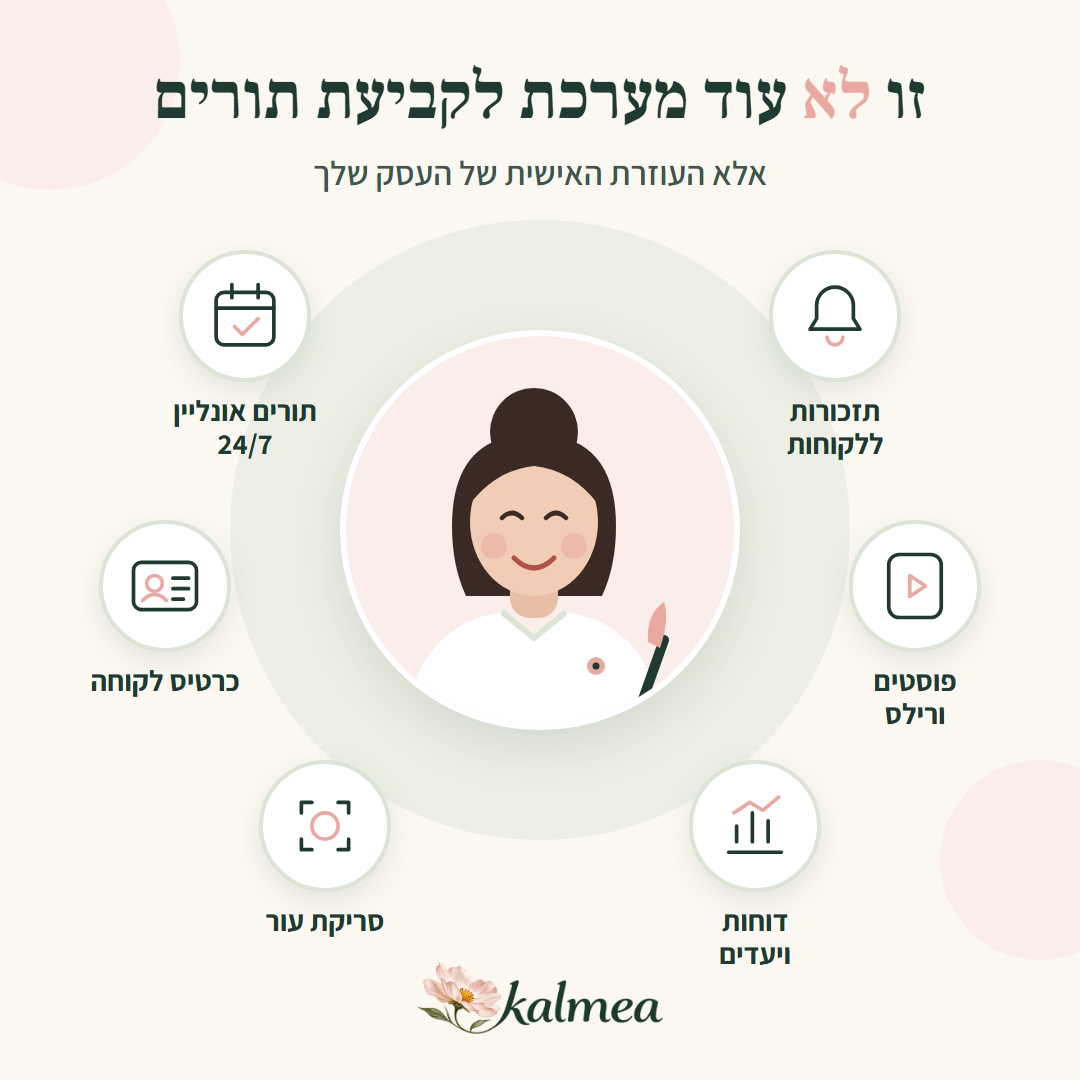
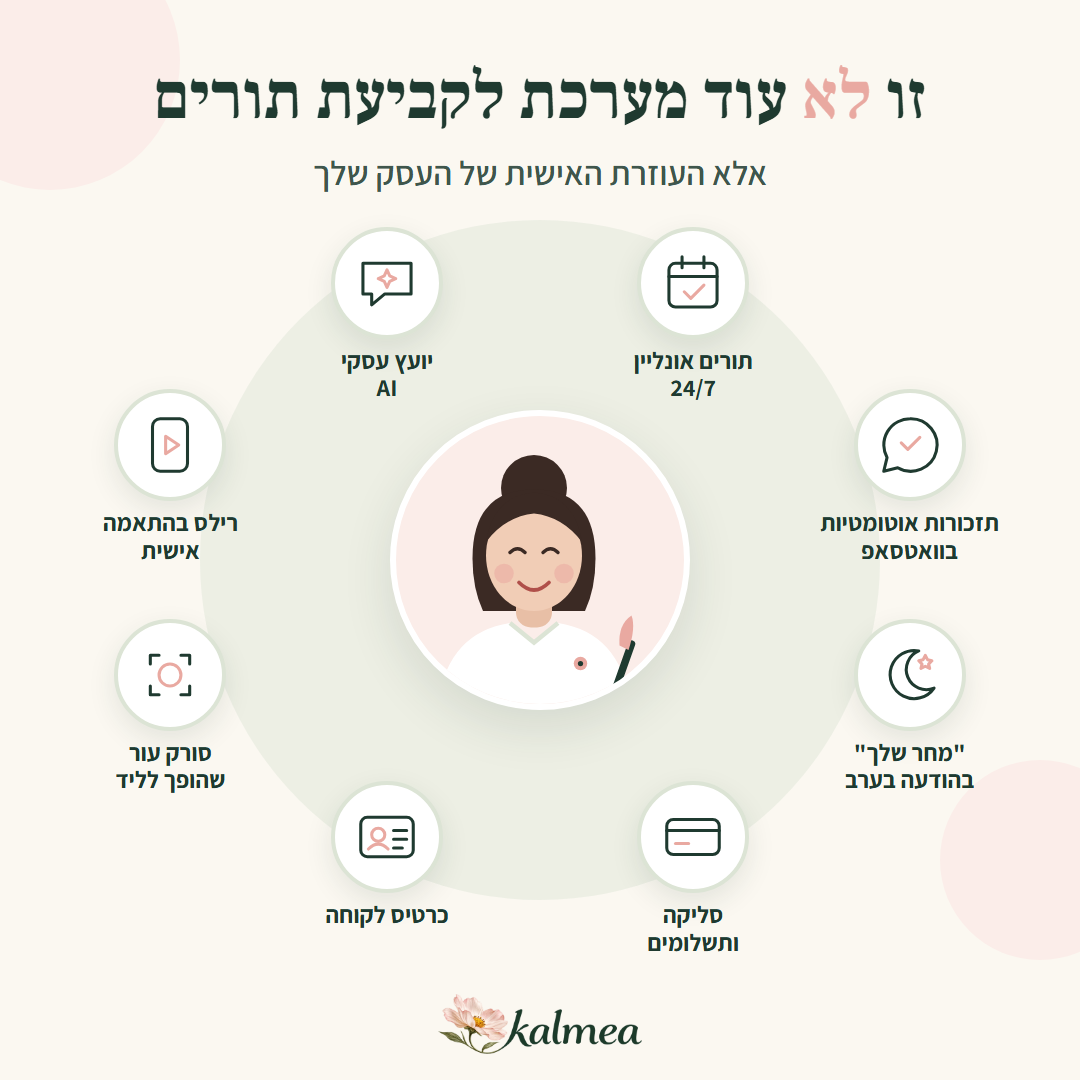
Welcome WhatsApp: opt-in box at signup (unticked), send only with it; 8-feature image
Signup gets an unticked WhatsApp consent box stored as user_metadata.wa_welcome_optin;
the welcome is skipped without it. The header image now shows reminders, the evening
'tomorrow' message and payments too.

diff --git a/test-owner-welcome.ts b/test-owner-welcome.ts
@@ -47,7 +47,7 @@ await ok('off by default: no env, a typo, or "true" all mean off, and off touche
   assert.equal(welcomeMode({ OWNER_WELCOME_WA: 'live' }), 'live');
   const f = fakeDb();
   const a = mockAdapter();
-  const r = await sendOwnerWelcome({ db: f.db, tenantId: T, businessName: 'סטודיו נועה', businessPhone: '0541234567', env: {}, adapter: a });
+  const r = await sendOwnerWelcome({ optedIn: true, db: f.db, tenantId: T, businessName: 'סטודיו נועה', businessPhone: '0541234567', env: {}, adapter: a });
   assert.deepEqual(r, { status: 'skipped', reason: 'off' });
   assert.equal(f.reads(), 0, 'no database read when off');
   assert.equal(a.sent.length, 0);
@@ -56,7 +56,7 @@ await ok('off by default: no env, a typo, or "true" all mean off, and off touche
 await ok('mock: marker claimed, a mock id, the Hebrew preview, a mock cost row, and nothing on the network', async () => {
   const f = fakeDb();
   const a = mockAdapter();
-  const r = await sendOwnerWelcome({ db: f.db, tenantId: T, businessName: 'סטודיו נועה', businessPhone: '054-123-4567', env: { OWNER_WELCOME_WA: 'mock' }, adapter: a });
+  const r = await sendOwnerWelcome({ optedIn: true, db: f.db, tenantId: T, businessName: 'סטודיו נועה', businessPhone: '054-123-4567', env: { OWNER_WELCOME_WA: 'mock' }, adapter: a });
   assert.equal(r.status, 'mock');
   if (r.status !== 'mock') return;
   assert.ok(r.messageId.startsWith('mock.'));
@@ -78,10 +78,10 @@ await ok('once only: the same business again, or another business on the same nu
   const f = fakeDb();
   const a = mockAdapter();
   const env = { OWNER_WELCOME_WA: 'mock' };
-  await sendOwnerWelcome({ db: f.db, tenantId: T, businessName: 'א', businessPhone: '0541234567', env, adapter: a });
-  const again = await sendOwnerWelcome({ db: f.db, tenantId: T, businessName: 'א', businessPhone: '0541234567', env, adapter: a });
+  await sendOwnerWelcome({ optedIn: true, db: f.db, tenantId: T, businessName: 'א', businessPhone: '0541234567', env, adapter: a });
+  const again = await sendOwnerWelcome({ optedIn: true, db: f.db, tenantId: T, businessName: 'א', businessPhone: '0541234567', env, adapter: a });
   assert.deepEqual(again, { status: 'skipped', reason: 'duplicate' });
-  const other = await sendOwnerWelcome({ db: f.db, tenantId: '00000000-0000-0000-0000-0000000000b2', businessName: 'ב', businessPhone: '0541234567', env, adapter: a });
+  const other = await sendOwnerWelcome({ optedIn: true, db: f.db, tenantId: '00000000-0000-0000-0000-0000000000b2', businessName: 'ב', businessPhone: '0541234567', env, adapter: a });
   assert.deepEqual(other, { status: 'skipped', reason: 'duplicate' });
   assert.equal(a.sent.length, 1);
 });
@@ -89,7 +89,7 @@ await ok('once only: the same business again, or another business on the same nu
 await ok('fails closed: when the marker table cannot be written (migration not run), nothing is sent', async () => {
   const f = fakeDb({ markerError: { code: '42P01', message: 'relation "owner_welcome_messages" does not exist' } });
   const a = mockAdapter();
-  const r = await sendOwnerWelcome({ db: f.db, tenantId: T, businessName: 'א', businessPhone: '0541234567', env: LIVE, adapter: a });
+  const r = await sendOwnerWelcome({ optedIn: true, db: f.db, tenantId: T, businessName: 'א', businessPhone: '0541234567', env: LIVE, adapter: a });
   assert.deepEqual(r, { status: 'skipped', reason: 'marker-unavailable' });
   assert.equal(a.sent.length, 0);
 });
@@ -97,12 +97,12 @@ await ok('fails closed: when the marker table cannot be written (migration not r
 await ok('the verified mobile wins over the onboarding phone; a landline or nothing means no send', async () => {
   const f = fakeDb({ verified: '972529998877' });
   const a = mockAdapter();
-  await sendOwnerWelcome({ db: f.db, tenantId: T, userId: 'u1', businessName: 'א', businessPhone: '0541234567', env: { OWNER_WELCOME_WA: 'mock' }, adapter: a });
+  await sendOwnerWelcome({ optedIn: true, db: f.db, tenantId: T, userId: 'u1', businessName: 'א', businessPhone: '0541234567', env: { OWNER_WELCOME_WA: 'mock' }, adapter: a });
   assert.equal(a.sent[0].to, '972529998877');
   assert.equal(f.markers[0].phone_source, 'verified');
   for (const phone of ['03-1234567', '', null]) {
     const g = fakeDb();
-    const r = await sendOwnerWelcome({ db: g.db, tenantId: T, businessName: 'א', businessPhone: phone, env: { OWNER_WELCOME_WA: 'mock' }, adapter: mockAdapter() });
+    const r = await sendOwnerWelcome({ optedIn: true, db: g.db, tenantId: T, businessName: 'א', businessPhone: phone, env: { OWNER_WELCOME_WA: 'mock' }, adapter: mockAdapter() });
     assert.deepEqual(r, { status: 'skipped', reason: 'no-phone' });
     assert.equal(g.markers.length, 0);
   }
@@ -111,9 +111,9 @@ await ok('the verified mobile wins over the onboarding phone; a landline or noth
 await ok('never: a demo tenant, a test-looking name, or (live) a reserved fake number', async () => {
   const a = mockAdapter();
   const env = LIVE;
-  assert.deepEqual(await sendOwnerWelcome({ db: fakeDb().db, tenantId: DEMO_TENANT_IDS.cosmetics, businessName: 'א', businessPhone: '0541234567', env, adapter: a }), { status: 'skipped', reason: 'demo' });
-  assert.deepEqual(await sendOwnerWelcome({ db: fakeDb().db, tenantId: T, businessName: 'בדיקה 1791063027140', businessPhone: '0541234567', env, adapter: a }), { status: 'skipped', reason: 'test-name' });
-  assert.deepEqual(await sendOwnerWelcome({ db: fakeDb().db, tenantId: T, businessName: 'א', businessPhone: '050-0000011', env, adapter: a }), { status: 'skipped', reason: 'test-number' });
+  assert.deepEqual(await sendOwnerWelcome({ optedIn: true, db: fakeDb().db, tenantId: DEMO_TENANT_IDS.cosmetics, businessName: 'א', businessPhone: '0541234567', env, adapter: a }), { status: 'skipped', reason: 'demo' });
+  assert.deepEqual(await sendOwnerWelcome({ optedIn: true, db: fakeDb().db, tenantId: T, businessName: 'בדיקה 1791063027140', businessPhone: '0541234567', env, adapter: a }), { status: 'skipped', reason: 'test-name' });
+  assert.deepEqual(await sendOwnerWelcome({ optedIn: true, db: fakeDb().db, tenantId: T, businessName: 'א', businessPhone: '050-0000011', env, adapter: a }), { status: 'skipped', reason: 'test-number' });
   assert.equal(a.sent.length, 0);
   assert.ok(isReservedTestNumber('972500000099') && !isReservedTestNumber('972500000100') && !isReservedTestNumber('972541234567'));
 });
@@ -121,10 +121,10 @@ await ok('never: a demo tenant, a test-looking name, or (live) a reserved fake n
 await ok('live: refused (and recorded) without WA Cloud credentials or without the videos link', async () => {
   const a = mockAdapter();
   const f = fakeDb();
-  const r1 = await sendOwnerWelcome({ db: f.db, tenantId: T, businessName: 'א', businessPhone: '0541234567', env: { OWNER_WELCOME_WA: 'live', OWNER_WELCOME_TUTORIALS_URL: 'https://x.y' }, adapter: a });
+  const r1 = await sendOwnerWelcome({ optedIn: true, db: f.db, tenantId: T, businessName: 'א', businessPhone: '0541234567', env: { OWNER_WELCOME_WA: 'live', OWNER_WELCOME_TUTORIALS_URL: 'https://x.y' }, adapter: a });
   assert.equal(r1.status, 'refused');
   assert.equal(f.updates.at(-1)?.status, 'refused');
-  const r2 = await sendOwnerWelcome({ db: fakeDb().db, tenantId: T, businessName: 'א', businessPhone: '0541234567', env: { ...LIVE, OWNER_WELCOME_TUTORIALS_URL: 'kalmea.app/tutorials' }, adapter: a });
+  const r2 = await sendOwnerWelcome({ optedIn: true, db: fakeDb().db, tenantId: T, businessName: 'א', businessPhone: '0541234567', env: { ...LIVE, OWNER_WELCOME_TUTORIALS_URL: 'kalmea.app/tutorials' }, adapter: a });
   assert.equal(r2.status, 'refused');
   if (r2.status === 'refused') assert.equal(r2.reason, 'no-tutorials-link');
   assert.equal(a.sent.length, 0);
@@ -134,7 +134,7 @@ await ok('live: refused (and recorded) without WA Cloud credentials or without t
 await ok('live: accepted with the template payload; a Meta error is recorded as failed and not retried', async () => {
   const a = mockAdapter();
   const f = fakeDb();
-  const r = await sendOwnerWelcome({ db: f.db, tenantId: T, businessName: 'סטודיו נועה', businessPhone: '0541234567', env: LIVE, adapter: a });
+  const r = await sendOwnerWelcome({ optedIn: true, db: f.db, tenantId: T, businessName: 'סטודיו נועה', businessPhone: '0541234567', env: LIVE, adapter: a });
   assert.equal(r.status, 'accepted');
   assert.deepEqual(a.sent[0].body, {
     name: 'kalmea_owner_welcome', language: { code: 'he' },
@@ -148,10 +148,10 @@ await ok('live: accepted with the template payload; a Meta error is recorded as 
   assert.equal(f.costs[0].mode, 'live');
   const failing: WaCloudAdapter = { mode: 'live', sendTemplate: async () => ({ ok: false, mode: 'live', error: 'template not approved' }), sendText: async () => ({ ok: false, mode: 'live', error: 'x' }) };
   const g = fakeDb();
-  const bad = await sendOwnerWelcome({ db: g.db, tenantId: T, businessName: 'א', businessPhone: '0541234567', env: LIVE, adapter: failing });
+  const bad = await sendOwnerWelcome({ optedIn: true, db: g.db, tenantId: T, businessName: 'א', businessPhone: '0541234567', env: LIVE, adapter: failing });
   assert.deepEqual(bad, { status: 'failed', error: 'template not approved' });
   assert.equal(g.updates.at(-1)?.status, 'failed');
-  const retry = await sendOwnerWelcome({ db: g.db, tenantId: T, businessName: 'א', businessPhone: '0541234567', env: LIVE, adapter: a });
+  const retry = await sendOwnerWelcome({ optedIn: true, db: g.db, tenantId: T, businessName: 'א', businessPhone: '0541234567', env: LIVE, adapter: a });
   assert.deepEqual(retry, { status: 'skipped', reason: 'duplicate' });
 });
 
@@ -171,6 +171,19 @@ await ok('template obeys Meta rules, has the hook and the image, and the docs ca
   const b = buildWelcome('שם\nעם שורה', 'https://kalmea.app/tutorials');
   assert.equal(b.params[0], 'שם עם שורה', 'no newline in a parameter');
   assert.equal(buildWelcome('', 'https://a.b').params[0], 'העסק שלך');
+});
+
+await ok('no opt-in at signup, no message: nothing read, nothing sent', async () => {
+  const f = fakeDb();
+  const a = mockAdapter();
+  const r = await sendOwnerWelcome({ optedIn: false, db: f.db, tenantId: T, businessName: 'א', businessPhone: '0541234567', env: LIVE, adapter: a });
+  assert.deepEqual(r, { status: 'skipped', reason: 'no-consent' });
+  assert.equal(f.reads(), 0);
+  assert.equal(a.sent.length, 0);
+  const signup = readFileSync('app/signup/page.tsx', 'utf8');
+  assert.ok(signup.includes('const [waOptIn, setWaOptIn] = useState(false)'), 'the box starts unticked');
+  assert.ok(signup.includes('wa_welcome_optin: true'), 'the yes is stored on the account');
+  assert.ok(readFileSync('app/api/settings/save/route.ts', 'utf8').includes("user.user_metadata?.wa_welcome_optin === true"), 'the route reads it');
 });
 
 await ok('the signup route calls it after the response, only on the first settings insert', () => {

diff --git a/marketing/welcome/welcome-image.html b/marketing/welcome/welcome-image.html
@@ -19,21 +19,21 @@
        font-weight:700; font-size:66px; line-height:1.1; }
   h1 .not { color:var(--pink); }
   .sub { position:absolute; top:150px; left:0; right:0; text-align:center; font-size:34px; font-weight:600; opacity:.85; }
-  .hero { position:absolute; left:340px; top:330px; width:400px; height:400px; border-radius:50%;
+  .hero { position:absolute; left:390px; top:410px; width:300px; height:300px; border-radius:50%;
           background:var(--petal); border:6px solid #fff; box-shadow:0 18px 50px rgba(31,58,48,.12); overflow:hidden; }
-  .feat { position:absolute; width:190px; text-align:center; }
-  .feat .c { width:132px; height:132px; margin:0 auto; border-radius:50%; background:#fff; border:4px solid var(--sage);
+  .feat { position:absolute; width:200px; text-align:center; }
+  .feat .c { width:112px; height:112px; margin:0 auto; border-radius:50%; background:#fff; border:4px solid var(--sage);
              display:flex; align-items:center; justify-content:center; box-shadow:0 10px 28px rgba(31,58,48,.10); }
-  .feat .c svg { width:84px; height:84px; stroke:var(--green); fill:none; stroke-width:2.8; stroke-linecap:round; stroke-linejoin:round; }
+  .feat .c svg { width:70px; height:70px; stroke:var(--green); fill:none; stroke-width:2.8; stroke-linecap:round; stroke-linejoin:round; }
   .feat .c .acc { stroke:var(--pink); }
-  .feat .l { margin-top:12px; font-size:29px; font-weight:700; line-height:1.15; }
-  .foot { position:absolute; bottom:46px; left:0; right:0; display:flex; justify-content:center; align-items:center; gap:14px; }
-  .foot img.mark { height:72px; }
+  .feat .l { margin-top:8px; font-size:24px; font-weight:700; line-height:1.15; }
+  .foot { position:absolute; bottom:26px; left:0; right:0; display:flex; justify-content:center; align-items:center; gap:14px; }
+  .foot img.mark { height:60px; }
   .foot img.flower { height:44px; }
 </style>
 </head>
 <body>
-  <div class="wash" style="width:620px;height:620px;left:230px;top:220px;background:var(--sage);opacity:.45"></div>
+  <div class="wash" style="width:680px;height:680px;left:200px;top:220px;background:var(--sage);opacity:.45"></div>
   <div class="wash" style="width:260px;height:260px;left:-80px;top:-70px;background:var(--petal)"></div>
   <div class="wash" style="width:200px;height:200px;right:-60px;bottom:120px;background:var(--petal)"></div>
 
@@ -42,7 +42,7 @@
 
   <!-- the cosmetician: flat illustration, invented, no real person -->
   <div class="hero">
-    <svg viewBox="0 0 400 400" width="400" height="400">
+    <svg viewBox="0 0 400 400" width="300" height="300">
       <circle cx="200" cy="96" r="44" fill="#3B2A24"/>                          <!-- bun -->
       <path d="M118 190 q0-92 82-92 q82 0 82 92 q0 40-14 70 l-136 0 q-14-30-14-70z" fill="#3B2A24"/> <!-- hair -->
       <rect x="176" y="232" width="48" height="50" rx="20" fill="#E8BFA6"/>       <!-- neck -->
@@ -63,32 +63,28 @@
     </svg>
   </div>
 
-  <!-- six features around her (positions chosen by hand, centre 540,530) -->
-  <div class="feat" style="left:445px;top:190px;display:none"></div>
-  <div class="feat" style="left:150px;top:250px">
-    <div class="c"><svg viewBox="0 0 64 64"><rect x="10" y="14" width="44" height="40" rx="6"/><path d="M10 26h44M22 8v10M42 8v10"/><path class="acc" d="M24 40l6 6 12-12"/></svg></div>
-    <div class="l">תורים אונליין<br>24/7</div>
+  <!-- eight features on an ellipse around her; placed by the script below (RTL: the first is top right) -->
+  <div id="ring">
+    <div class="feat"><div class="c"><svg viewBox="0 0 64 64"><rect x="10" y="14" width="44" height="40" rx="6"/><path d="M10 26h44M22 8v10M42 8v10"/><path class="acc" d="M24 40l6 6 12-12"/></svg></div><div class="l">תורים אונליין<br>24/7</div></div>
+    <div class="feat"><div class="c"><svg viewBox="0 0 64 64"><path d="M32 8a24 24 0 0 0-21 35.5L8 56l12.8-3.2A24 24 0 1 0 32 8z"/><path class="acc" d="M24 30l6 6 11-11"/></svg></div><div class="l">תזכורות אוטומטיות<br>בוואטסאפ</div></div>
+    <div class="feat"><div class="c"><svg viewBox="0 0 64 64"><path d="M40 10a22 22 0 1 0 14 34A18 18 0 0 1 40 10z"/><path class="acc" d="M46 14l2 4 4 1-3 3 1 4-4-2-4 2 1-4-3-3 4-1z"/></svg></div><div class="l">"מחר שלך"<br>בהודעה בערב</div></div>
+    <div class="feat"><div class="c"><svg viewBox="0 0 64 64"><rect x="8" y="16" width="48" height="32" rx="6"/><path d="M8 26h48"/><path class="acc" d="M16 38h12"/></svg></div><div class="l">סליקה<br>ותשלומים</div></div>
+    <div class="feat"><div class="c"><svg viewBox="0 0 64 64"><rect x="8" y="14" width="48" height="36" rx="6"/><circle class="acc" cx="24" cy="30" r="6"/><path class="acc" d="M15 43q9-9 18 0"/><path d="M38 26h12M38 34h12M38 42h8"/></svg></div><div class="l">כרטיס לקוחה</div></div>
+    <div class="feat"><div class="c"><svg viewBox="0 0 64 64"><path d="M14 22V14h8M42 14h8v8M50 42v8h-8M22 50h-8v-8"/><circle class="acc" cx="32" cy="32" r="10"/></svg></div><div class="l">סורק עור<br>שהופך לליד</div></div>
+    <div class="feat"><div class="c"><svg viewBox="0 0 64 64"><rect x="16" y="8" width="32" height="48" rx="7"/><path class="acc" d="M28 24l12 8-12 8z"/></svg></div><div class="l">רילס בהתאמה<br>אישית</div></div>
+    <div class="feat"><div class="c"><svg viewBox="0 0 64 64"><path d="M10 14h44v28H30l-12 10V42h-8z"/><path class="acc" d="M32 20l2.5 5.5L40 28l-5.5 2.5L32 36l-2.5-5.5L24 28l5.5-2.5z"/></svg></div><div class="l">יועץ עסקי<br>AI</div></div>
   </div>
-  <div class="feat" style="left:740px;top:250px">
-    <div class="c"><svg viewBox="0 0 64 64"><path d="M32 10a14 14 0 0 1 14 14v10l5 8H13l5-8V24a14 14 0 0 1 14-14z"/><path class="acc" d="M26 48a6 6 0 0 0 12 0"/></svg></div>
-    <div class="l">תזכורות<br>ללקוחות</div>
-  </div>
-  <div class="feat" style="left:70px;top:520px">
-    <div class="c"><svg viewBox="0 0 64 64"><rect x="8" y="14" width="48" height="36" rx="6"/><circle class="acc" cx="24" cy="30" r="6"/><path class="acc" d="M15 43q9-9 18 0"/><path d="M38 26h12M38 34h12M38 42h8"/></svg></div>
-    <div class="l">כרטיס לקוחה</div>
-  </div>
-  <div class="feat" style="left:820px;top:520px">
-    <div class="c"><svg viewBox="0 0 64 64"><rect x="12" y="8" width="40" height="48" rx="8"/><path class="acc" d="M28 24l12 8-12 8z"/></svg></div>
-    <div class="l">פוסטים<br>ורילס</div>
-  </div>
-  <div class="feat" style="left:230px;top:760px">
-    <div class="c"><svg viewBox="0 0 64 64"><path d="M14 22V14h8M42 14h8v8M50 42v8h-8M22 50h-8v-8"/><circle class="acc" cx="32" cy="32" r="10"/></svg></div>
-    <div class="l">סריקת עור</div>
-  </div>
-  <div class="feat" style="left:660px;top:760px">
-    <div class="c"><svg viewBox="0 0 64 64"><path d="M12 52h40"/><path d="M18 44V32M30 44V22M42 44V28"/><path class="acc" d="M16 22l12-8 10 6 12-10"/></svg></div>
-    <div class="l">דוחות<br>ויעדים</div>
-  </div>
+  <script>
+    // Centre of the ring and its radii, in page pixels. 8 positions, 45deg apart, starting 22.5deg right of the top,
+    // so nothing sits under the title or on the wordmark. Each .feat is 200px wide, its circle 112px.
+    const CX = 540, CY = 560, RX = 400, RY = 300;
+    document.querySelectorAll('#ring .feat').forEach((el, i) => {
+      const a = (22.5 + 45 * i) * Math.PI / 180;
+      const x = CX + RX * Math.sin(a), y = CY - RY * Math.cos(a);
+      el.style.left = (x - 100) + 'px';
+      el.style.top = (y - 56) + 'px';
+    });
+  </script>
 
   <div class="foot">
 

diff --git a/app/signup/page.tsx b/app/signup/page.tsx
@@ -34,6 +34,9 @@ export default function SignupPage() {
   // email and password. Asked of the server, not built in: off (or unreadable) means the two-field form, as before.
   const [phoneRequired, setPhoneRequired] = useState(false)
   const [phoneOk, setPhoneOk] = useState<PhoneVerified | null>(null)
+  // Her explicit yes to Kalmea's own WhatsApp (the welcome with the tutorial videos, lib/ownerWelcome.ts). Unticked by default:
+  // a marketing message needs a real opt-in (Meta's policy and the Israeli spam law), and without it nothing is sent.
+  const [waOptIn, setWaOptIn] = useState(false)
   const router = useRouter()
 
   useEffect(() => {
@@ -73,6 +76,7 @@ export default function SignupPage() {
           // The verified mobile and the server's signed proof of it. Claimed for her on her first signed-in request
           // (app/api/phone/status); the database refuses it if another account already holds the number.
           ...(phoneOk?.ticket ? { phone_e164: phoneOk.phone, phone_ticket: phoneOk.ticket } : {}),
+          ...(waOptIn ? { wa_welcome_optin: true, wa_welcome_optin_at: new Date().toISOString() } : {}),
         },
       },
     })
@@ -250,6 +254,17 @@ export default function SignupPage() {
             </button>
           </Field>
 
+          <label htmlFor="signup-wa-optin" style={optInStyle}>
+            <input
+              id="signup-wa-optin"
+              type="checkbox"
+              checked={waOptIn}
+              onChange={(e) => setWaOptIn(e.target.checked)}
+              style={{ width: 20, height: 20, margin: '2px 0 0', accentColor: DEEP, flexShrink: 0 }}
+            />
+            <span>אשמח לקבל מקלמיה בוואטסאפ הודעת ברוכה הבאה, סרטוני הדרכה ועדכונים. אפשר להפסיק בכל רגע.</span>
+          </label>
+
           {error && <div role="alert" style={errorStyle}>{error}</div>}
 
           <button type="submit" disabled={loading} className="signup-btn" style={buttonStyle(loading)}>
@@ -420,4 +435,16 @@ const linkStyle: React.CSSProperties = {
   color: ACCENT,
   fontWeight: 700,
   textDecoration: 'none',
+}
+
+const optInStyle: React.CSSProperties = {
+  display: 'flex',
+  alignItems: 'flex-start',
+  gap: 10,
+  margin: '4px 0 16px',
+  minHeight: 44,
+  fontSize: "var(--t-sm)",
+  lineHeight: 1.5,
+  color: DEEP,
+  cursor: 'pointer',
 }

diff --git a/lib/ownerWelcome.ts b/lib/ownerWelcome.ts
@@ -24,7 +24,7 @@
 // failed send is recorded and never retried automatically. If the table cannot be written (migration not run), nothing
 // is sent - fails closed, because a send without the marker could repeat.
 //
-// Never sent: demo tenants, test-looking business names (13 digits, as the test runs create), and in live mode the
+// Never sent without her opt-in: the unticked-by-default box on /signup (user_metadata.wa_welcome_optin). Never sent: demo tenants, test-looking business names (13 digits, as the test runs create), and in live mode the
 // reserved fake numbers 050-0000000..050-0000099 that the SMS mock uses.
 
 import { createHash } from 'node:crypto';
@@ -139,7 +139,7 @@ export async function resolveOwnerMobile(db: Db, o: { tenantId: string; userId?:
 }
 
 export type WelcomeResult =
-  | { status: 'skipped'; reason: 'off' | 'no-tenant' | 'demo' | 'test-name' | 'no-phone' | 'test-number' | 'duplicate' | 'marker-unavailable' }
+  | { status: 'skipped'; reason: 'off' | 'no-tenant' | 'no-consent' | 'demo' | 'test-name' | 'no-phone' | 'test-number' | 'duplicate' | 'marker-unavailable' }
   | { status: 'refused'; reason: 'not-configured' | 'no-tutorials-link'; detail: string }
   | { status: 'mock'; preview: string; messageId: string }
   | { status: 'accepted'; messageId: string }
@@ -158,6 +158,8 @@ export async function sendOwnerWelcome(o: {
   db: Db;
   tenantId: string;
   userId?: string | null;
+  /** She ticked the WhatsApp box at signup. */
+  optedIn: boolean;
   businessName: unknown;
   businessPhone?: unknown;
   env?: WaCloudEnv;
@@ -168,6 +170,7 @@ export async function sendOwnerWelcome(o: {
   if (mode === 'off') return { status: 'skipped', reason: 'off' };
   const { db, tenantId } = o;
   if (!tenantId) return { status: 'skipped', reason: 'no-tenant' };
+  if (o.optedIn !== true) return { status: 'skipped', reason: 'no-consent' };
   if (isDemoTenantId(tenantId)) return { status: 'skipped', reason: 'demo' };
   if (looksLikeTestName(o.businessName)) return { status: 'skipped', reason: 'test-name' };
 

diff --git a/app/api/settings/save/route.ts b/app/api/settings/save/route.ts
@@ -44,14 +44,14 @@ function admin() {
 async function resolveTenant() {
   const session = await createSessionClient();
   const { data: { user } } = await session.auth.getUser();
-  if (!user) return { error: 'לא מחוברת', status: 401 as const, tenantId: null, userId: null };
+  if (!user) return { error: 'לא מחוברת', status: 401 as const, tenantId: null, userId: null, waOptIn: false };
 
   const { data: tenantId, error } = await session.rpc('get_user_tenant_id');
   if (error || !tenantId) {
     console.error('[settings/save] tenant resolve failed:', error?.message);
-    return { error: 'לא זוהה עסק', status: 400 as const, tenantId: null, userId: null };
+    return { error: 'לא זוהה עסק', status: 400 as const, tenantId: null, userId: null, waOptIn: false };
   }
-  return { error: null, status: 200 as const, tenantId: tenantId as string, userId: user.id };
+  return { error: null, status: 200 as const, tenantId: tenantId as string, userId: user.id, waOptIn: user.user_metadata?.wa_welcome_optin === true };
 }
 
 // 200 KB is generous for a settings row (the FAQ and branding JSON are the
@@ -147,7 +147,7 @@ export async function POST(request: Request) {
   const signupPhone = (data as { business_phone?: unknown } | null)?.business_phone ?? (insertRow as { business_phone?: unknown }).business_phone;
   after(async () => {
     try {
-      const r = await sendOwnerWelcome({ db, tenantId, userId: t.userId, businessName: signupName, businessPhone: signupPhone });
+      const r = await sendOwnerWelcome({ db, tenantId, userId: t.userId, optedIn: t.waOptIn, businessName: signupName, businessPhone: signupPhone });
       if (r.status !== 'skipped' || r.reason !== 'off') console.log(`[settings/save] owner welcome for ${tenantId}: ${r.status}${'reason' in r ? ` (${r.reason})` : ''}`);
     } catch (e) {
       console.error('[settings/save] owner welcome failed:', e instanceof Error ? e.message : 'unknown');
